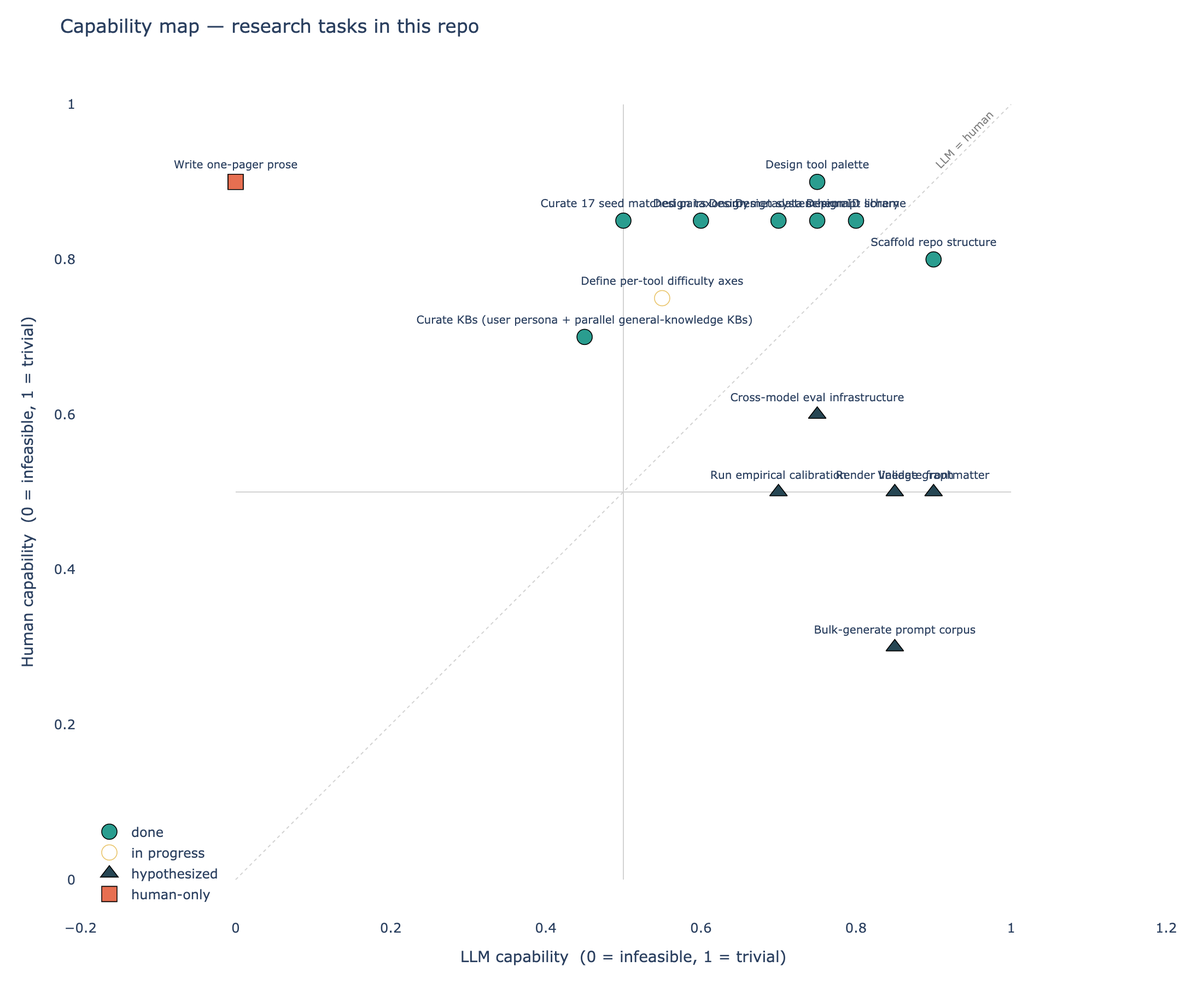
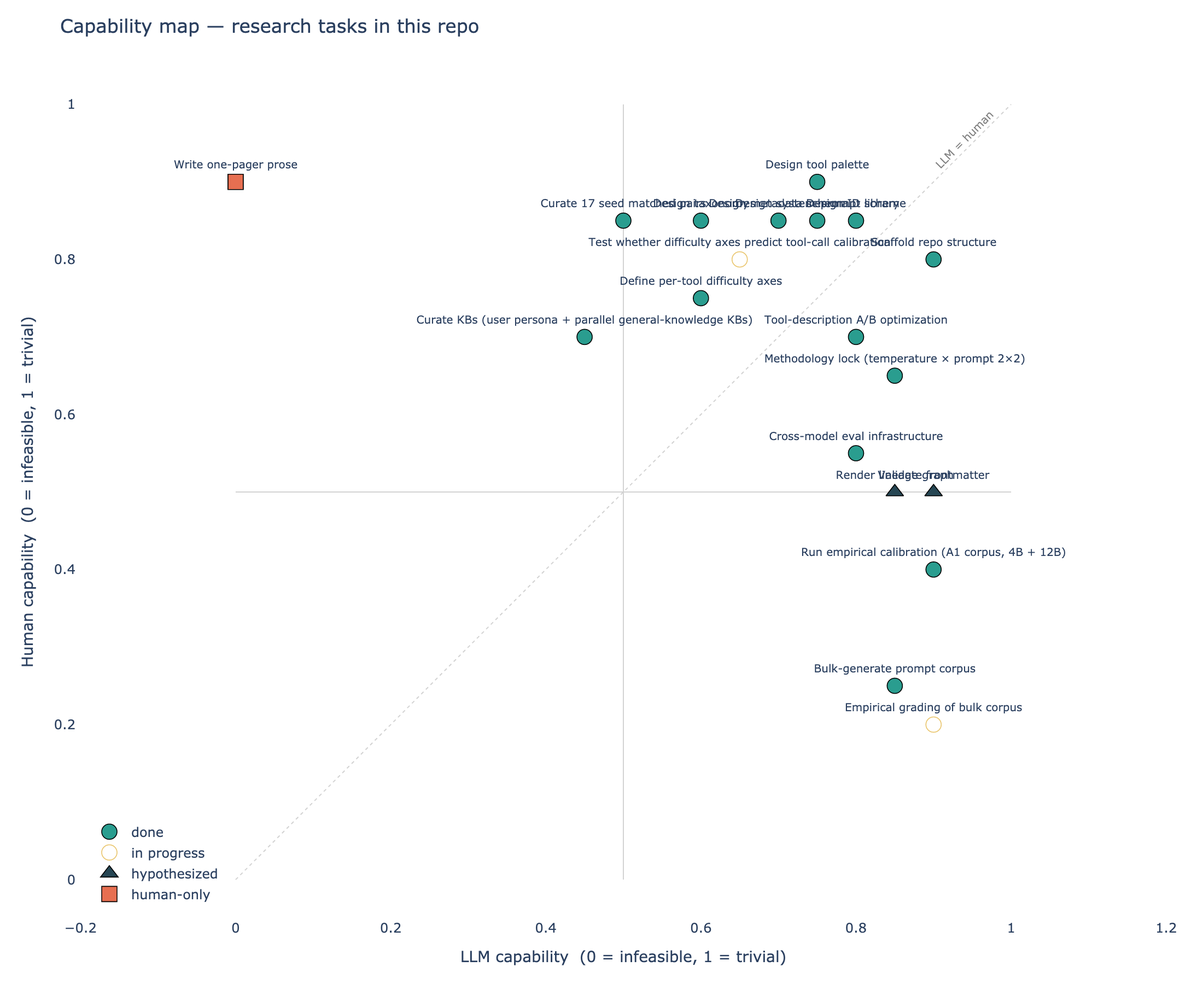
Capability map + A3 fixes + legacy mark + memory updates
Capability map (capability-map/tasks.yaml):
- define-difficulty-axes: hypothesized → done; axis tweaks noted.
- bulk-generate-corpus: hypothesized → done (003 link).
- empirical-calibration-run: hypothesized → done (004 link).
- cross-model-eval-infra: hypothesized → done (004 link).
- Added: tool-spec-optimization (005, done), temperature-prompt-2x2
  (006, done), bulk-corpus-grading (007 prereq, in-progress),
  axes-performativity-analysis (007, in-progress).

A3 reviewer items resolved:
- Item 1 (expected_tool_call convention divergence): A3's stricter
  convention (warranted-half = True only at medium+) canonicalized
  in 003 Decision 1. A1 records happen to satisfy it (every A1
  warranted half is medium+), so no A1 retrofit needed.
- Item 2 (datetime_now × extreme): 9 records relabeled in
  bulk_seeds.jsonl to tool_target=python_execute. All records still
  validate. Captured in 003 Decision 2. Post-relabel:
  datetime_now × extreme = 0; python_execute × extreme = 22.
  The record IDs still contain "datetime_now" in the {tool} slug —
  documented as accepted ID-vs-field inconsistency.
- Item 3 (UKL composite queries): Amendment Decision 1a added to
  002 investigation.md formalizing the UKL composite extension to
  hard/extreme via 2-/3-field synthesis. 5 A3 records use this.
- Item 4 (GKL trivial recycling): logged as known limitation in
  003 investigation.md. Will revisit after A4 grading shows
  whether model behavior on the trivial halves is dominated by
[…]

diff --git a/capability-map/capability-map.html b/capability-map/capability-map.html
@@ -2,6 +2,6 @@
 <head><meta charset="utf-8" /></head>
 <body>
     <div>                        <script>window.PlotlyConfig = {MathJaxConfig: 'local'};</script>
-        <script charset="utf-8" src="https://cdn.plot.ly/plotly-3.5.0.min.js" integrity="sha256-fHbNLP+GlIXN+efbQec78UkemUz3NJp7UmfGxC1tNxs=" crossorigin="anonymous"></script>                <div id="4e34c558-1bec-40a4-a410-45e835da3844" class="plotly-graph-div" style="height:900px; width:1100px;"></div>            <script>                window.PLOTLYENV=window.PLOTLYENV || {};                                if (document.getElementById("4e34c558-1bec-40a4-a410-45e835da3844")) {                    Plotly.newPlot(                        "4e34c558-1bec-40a4-a410-45e835da3844",                        [{"hoverinfo":"text","hovertext":["\u003cb\u003eScaffold repo structure\u003c\u002fb\u003e\u003cbr\u003eid: scaffold-repo-structure\u003cbr\u003estudy: 000-research-organization\u003cbr\u003einvestigation: 001-initial-scaffold\u003cbr\u003estatus: done\u003cbr\u003eLLM: 0.90 &nbsp; human: 0.80\u003cbr\u003eDone with principles supplied by human; minor decisions delegated.","\u003cb\u003eDesign taxonomy\u003c\u002fb\u003e\u003cbr\u003eid: design-taxonomy\u003cbr\u003estudy: 000-research-organization\u003cbr\u003einvestigation: 001-initial-scaffold\u003cbr\u003estatus: done\u003cbr\u003eLLM: 0.60 &nbsp; human: 0.85\u003cbr\u003eHuman chose between presented options.","\u003cb\u003eDesign tool palette\u003c\u002fb\u003e\u003cbr\u003eid: design-tool-palette\u003cbr\u003estudy: 001-tool-calibration\u003cbr\u003einvestigation: 001-foundations\u003cbr\u003estatus: done\u003cbr\u003eLLM: 0.75 &nbsp; human: 0.90\u003cbr\u003ePhase A1. LLM drafted 5 tools; human pushed to split knowledge_lookup (Decision 8) making the final palette six. Tool signatures and cognitive- moment annotations carried by LLM with human surfacing the split.","\u003cb\u003eDesign metadata schema\u003c\u002fb\u003e\u003cbr\u003eid: design-metadata-schema\u003cbr\u003estudy: 001-tool-calibration\u003cbr\u003einvestigation: 001-foundations\u003cbr\u003estatus: done\u003cbr\u003eLLM: 0.70 &nbsp; human: 0.85\u003cbr\u003ePhase A1. LLM drafted; human substantively reshaped \u2014 Decision 11 (register \u2192 3 orthogonal enums), Decision 13 (difficulty_label as signed object), Decision 18 (human_feasibility). LLM-first draft, human-led refinement.","\u003cb\u003eDesign ID scheme\u003c\u002fb\u003e\u003cbr\u003eid: design-id-scheme\u003cbr\u003estudy: 001-tool-calibration\u003cbr\u003einvestigation: 001-foundations\u003cbr\u003estatus: done\u003cbr\u003eLLM: 0.80 &nbsp; human: 0.85\u003cbr\u003ePhase A1. LLM designed the slug format; human caught the multi-token tool-name parse bug (Decision 12, switched field separator to `-`).","\u003cb\u003eDesign system-prompt library\u003c\u002fb\u003e\u003cbr\u003eid: design-system-prompt-library\u003cbr\u003estudy: 001-tool-calibration\u003cbr\u003einvestigation: 001-foundations\u003cbr\u003estatus: done\u003cbr\u003eLLM: 0.75 &nbsp; human: 0.85\u003cbr\u003ePhase A1. Human picked the 9-variant matrix; LLM wrote the templates and manifest. 4 variants drafted but unused by A1 seeds \u2014 kept for A2\u002fA3.","\u003cb\u003eCurate 17 seed matched pairs\u003c\u002fb\u003e\u003cbr\u003eid: curate-seed-prompts\u003cbr\u003estudy: 001-tool-calibration\u003cbr\u003einvestigation: 001-foundations\u003cbr\u003estatus: done\u003cbr\u003eLLM: 0.50 &nbsp; human: 0.85\u003cbr\u003ePhase A1. LLM drafted 16 pairs; human contributed pair 17 (Aunt Nina) and stamp-reviewed every half. LLM confabulated knowledge-base content (Decision 16) and made arithmetic errors that the user caught (Decision 17), pulling the LLM score down from the 0.45 hypothesis to 0.5 \u2014 better than expected at structure, worse at fact-grounding.","\u003cb\u003eCurate KBs (user persona + parallel general-knowledge KBs)\u003c\u002fb\u003e\u003cbr\u003eid: curate-knowledge-bases\u003cbr\u003estudy: 001-tool-calibration\u003cbr\u003einvestigation: 001-foundations\u003cbr\u003estatus: done\u003cbr\u003eLLM: 0.45 &nbsp; human: 0.70\u003cbr\u003ePhase A1 ancillary, surfaced mid-execution. LLM strong on fictional persona (Maya Patel) but confabulated when grounding general-knowledge KB \u2014 until pulled back to use WebSearch (Decision 16). The fabricated + verified parallel pair is itself a research artifact for a sibling investigation."],"marker":{"color":"#2a9d8f","line":{"color":"black","width":0.8},"size":14,"symbol":"circle"},"mode":"markers+text","name":"done","text":["Scaffold repo structure","Design taxonomy","Design tool palette","Design metadata schema","Design ID scheme","Design system-prompt library","Curate 17 seed matched pairs","Curate KBs (user persona + parallel general-knowledge KBs)"],"textfont":{"size":10},"textposition":"top center","x":[0.9,0.6,0.75,0.7,0.8,0.75,0.5,0.45],"y":[0.8,0.85,0.9,0.85,0.85,0.85,0.85,0.7],"type":"scatter"},{"hoverinfo":"text","hovertext":["\u003cb\u003eDefine per-tool difficulty axes\u003c\u002fb\u003e\u003cbr\u003eid: define-difficulty-axes\u003cbr\u003estudy: 001-tool-calibration\u003cbr\u003einvestigation: 002-difficulty-axes\u003cbr\u003estatus: in-progress\u003cbr\u003eLLM: 0.55 &nbsp; human: 0.75\u003cbr\u003ePhase A2 \u2014 depends on palette being frozen (done in A1)."],"marker":{"color":"#e9c46a","line":{"color":"black","width":0.8},"size":14,"symbol":"circle-open"},"mode":"markers+text","name":"in progress","text":["Define per-tool difficulty axes"],"textfont":{"size":10},"textposition":"top center","x":[0.55],"y":[0.75],"type":"scatter"},{"hoverinfo":"text","hovertext":["\u003cb\u003eRender lineage graph\u003c\u002fb\u003e\u003cbr\u003eid: lineage-graph-render\u003cbr\u003estudy: 000-research-organization\u003cbr\u003einvestigation: \u2014\u003cbr\u003estatus: hypothesized\u003cbr\u003eLLM: 0.85 &nbsp; human: 0.50\u003cbr\u003eGenerate DOT\u002fMermaid from lineage.yaml.","\u003cb\u003eValidate frontmatter\u003c\u002fb\u003e\u003cbr\u003eid: frontmatter-validator\u003cbr\u003estudy: 000-research-organization\u003cbr\u003einvestigation: \u2014\u003cbr\u003estatus: hypothesized\u003cbr\u003eLLM: 0.90 &nbsp; human: 0.50","\u003cb\u003eBulk-generate prompt corpus\u003c\u002fb\u003e\u003cbr\u003eid: bulk-generate-corpus\u003cbr\u003estudy: 001-tool-calibration\u003cbr\u003einvestigation: \u2014\u003cbr\u003estatus: hypothesized\u003cbr\u003eLLM: 0.85 &nbsp; human: 0.30\u003cbr\u003ePhase A3 \u2014 LLM-favored if seeds + axes are solid.","\u003cb\u003eRun empirical calibration\u003c\u002fb\u003e\u003cbr\u003eid: empirical-calibration-run\u003cbr\u003estudy: 001-tool-calibration\u003cbr\u003einvestigation: \u2014\u003cbr\u003estatus: hypothesized\u003cbr\u003eLLM: 0.70 &nbsp; human: 0.50\u003cbr\u003ePhase A4 \u2014 sweep target models on the corpus.","\u003cb\u003eCross-model eval infrastructure\u003c\u002fb\u003e\u003cbr\u003eid: cross-model-eval-infra\u003cbr\u003estudy: 001-tool-calibration\u003cbr\u003einvestigation: \u2014\u003cbr\u003estatus: hypothesized\u003cbr\u003eLLM: 0.75 &nbsp; human: 0.60"],"marker":{"color":"#264653","line":{"color":"black","width":0.8},"size":14,"symbol":"triangle-up"},"mode":"markers+text","name":"hypothesized","text":["Render lineage graph","Validate frontmatter","Bulk-generate prompt corpus","Run empirical calibration","Cross-model eval infrastructure"],"textfont":{"size":10},"textposition":"top center","x":[0.85,0.9,0.85,0.7,0.75],"y":[0.5,0.5,0.3,0.5,0.6],"type":"scatter"},{"hoverinfo":"text","hovertext":["\u003cb\u003eWrite one-pager prose\u003c\u002fb\u003e\u003cbr\u003eid: write-one-pager-prose\u003cbr\u003estudy: \u2014\u003cbr\u003einvestigation: \u2014\u003cbr\u003estatus: human-only\u003cbr\u003eLLM: 0.00 &nbsp; human: 0.90\u003cbr\u003ePolicy decision \u2014 Claude scaffolds and gives feedback only."],"marker":{"color":"#e76f51","line":{"color":"black","width":0.8},"size":14,"symbol":"square"},"mode":"markers+text","name":"human-only","text":["Write one-pager prose"],"textfont":{"size":10},"textposition":"top center","x":[0.0],"y":[0.9],"type":"scatter"}],                        {"template":{"data":{"barpolar":[{"marker":{"line":{"color":"white","width":0.5},"pattern":{"fillmode":"overlay","size":10,"solidity":0.2}},"type":"barpolar"}],"bar":[{"error_x":{"color":"#2a3f5f"},"error_y":{"color":"#2a3f5f"},"marker":{"line":{"color":"white","width":0.5},"pattern":{"fillmode":"overlay","size":10,"solidity":0.2}},"type":"bar"}],"carpet":[{"aaxis":{"endlinecolor":"#2a3f5f","gridcolor":"#C8D4E3","linecolor":"#C8D4E3","minorgridcolor":"#C8D4E3","startlinecolor":"#2a3f5f"},"baxis":{"endlinecolor":"#2a3f5f","gridcolor":"#C8D4E3","linecolor":"#C8D4E3","minorgridcolor":"#C8D4E3","startlinecolor":"#2a3f5f"},"type":"carpet"}],"choropleth":[{"colorbar":{"outlinewidth":0,"ticks":""},"type":"choropleth"}],"contourcarpet":[{"colorbar":{"outlinewidth":0,"ticks":""},"type":"contourcarpet"}],"contour":[{"colorbar":{"outlinewidth":0,"ticks":""},"colorscale":[[0.0,"#0d0887"],[0.1111111111111111,"#46039f"],[0.2222222222222222,"#7201a8"],[0.3333333333333333,"#9c179e"],[0.4444444444444444,"#bd3786"],[0.5555555555555556,"#d8576b"],[0.6666666666666666,"#ed7953"],[0.7777777777777778,"#fb9f3a"],[0.8888888888888888,"#fdca26"],[1.0,"#f0f921"]],"type":"contour"}],"heatmap":[{"colorbar":{"outlinewidth":0,"ticks":""},"colorscale":[[0.0,"#0d0887"],[0.1111111111111111,"#46039f"],[0.2222222222222222,"#7201a8"],[0.3333333333333333,"#9c179e"],[0.4444444444444444,"#bd3786"],[0.5555555555555556,"#d8576b"],[0.6666666666666666,"#ed7953"],[0.7777777777777778,"#fb9f3a"],[0.8888888888888888,"#fdca26"],[1.0,"#f0f921"]],"type":"heatmap"}],"histogram2dcontour":[{"colorbar":{"outlinewidth":0,"ticks":""},"colorscale":[[0.0,"#0d0887"],[0.1111111111111111,"#46039f"],[0.2222222222222222,"#7201a8"],[0.3333333333333333,"#9c179e"],[0.4444444444444444,"#bd3786"],[0.5555555555555556,"#d8576b"],[0.6666666666666666,"#ed7953"],[0.7777777777777778,"#fb9f3a"],[0.8888888888888888,"#fdca26"],[1.0,"#f0f921"]],"type":"histogram2dcontour"}],"histogram2d":[{"colorbar":{"outlinewidth":0,"ticks":""},"colorscale":[[0.0,"#0d0887"],[0.1111111111111111,"#46039f"],[0.2222222222222222,"#7201a8"],[0.3333333333333333,"#9c179e"],[0.4444444444444444,"#bd3786"],[0.5555555555555556,"#d8576b"],[0.6666666666666666,"#ed7953"],[0.7777777777777778,"#fb9f3a"],[0.8888888888888888,"#fdca26"],[1.0,"#f0f921"]],"type":"histogram2d"}],"histogram":[{"marker":{"pattern":{"fillmode":"overlay","size":10,"solidity":0.2}},"type":"histogram"}],"mesh3d":[{"colorbar":{"outlinewidth":0,"ticks":""},"type":"mesh3d"}],"parcoords":[{"line":{"colorbar":{"outlinewidth":0,"ticks":""}},"type":"parcoords"}],"pie":[{"automargin":true,"type":"pie"}],"scatter3d":[{"line":{"colorbar":{"outlinewidth":0,"ticks":""}},"marker":{"colorbar":{"outlinewidth":0,"ticks":""}},"type":"scatter3d"}],"scattercarpet":[{"marker":{"colorbar":{"outlinewidth":0,"ticks":""}},"type":"scattercarpet"}],"scattergeo":[{"marker":{"colorbar":{"outlinewidth":0,"ticks":""}},"type":"scattergeo"}],"scattergl":[{"marker":{"colorbar":{"outlinewidth":0,"ticks":""}},"type":"scattergl"}],"scattermapbox":[{"marker":{"colorbar":{"outlinewidth":0,"ticks":""}},"type":"scattermapbox"}],"scattermap":[{"marker":{"colorbar":{"outlinewidth":0,"ticks":""}},"type":"scattermap"}],"scatterpolargl":[{"marker":{"colorbar":{"outlinewidth":0,"ticks":""}},"type":"scatterpolargl"}],"scatterpolar":[{"marker":{"colorbar":{"outlinewidth":0,"ticks":""}},"type":"scatterpolar"}],"scatter":[{"fillpattern":{"fillmode":"overlay","size":10,"solidity":0.2},"type":"scatter"}],"scatterternary":[{"marker":{"colorbar":{"outlinewidth":0,"ticks":""}},"type":"scatterternary"}],"surface":[{"colorbar":{"outlinewidth":0,"ticks":""},"colorscale":[[0.0,"#0d0887"],[0.1111111111111111,"#46039f"],[0.2222222222222222,"#7201a8"],[0.3333333333333333,"#9c179e"],[0.4444444444444444,"#bd3786"],[0.5555555555555556,"#d8576b"],[0.6666666666666666,"#ed7953"],[0.7777777777777778,"#fb9f3a"],[0.8888888888888888,"#fdca26"],[1.0,"#f0f921"]],"type":"surface"}],"table":[{"cells":{"fill":{"color":"#EBF0F8"},"line":{"color":"white"}},"header":{"fill":{"color":"#C8D4E3"},"line":{"color":"white"}},"type":"table"}]},"layout":{"annotationdefaults":{"arrowcolor":"#2a3f5f","arrowhead":0,"arrowwidth":1},"autotypenumbers":"strict","coloraxis":{"colorbar":{"outlinewidth":0,"ticks":""}},"colorscale":{"diverging":[[0,"#8e0152"],[0.1,"#c51b7d"],[0.2,"#de77ae"],[0.3,"#f1b6da"],[0.4,"#fde0ef"],[0.5,"#f7f7f7"],[0.6,"#e6f5d0"],[0.7,"#b8e186"],[0.8,"#7fbc41"],[0.9,"#4d9221"],[1,"#276419"]],"sequential":[[0.0,"#0d0887"],[0.1111111111111111,"#46039f"],[0.2222222222222222,"#7201a8"],[0.3333333333333333,"#9c179e"],[0.4444444444444444,"#bd3786"],[0.5555555555555556,"#d8576b"],[0.6666666666666666,"#ed7953"],[0.7777777777777778,"#fb9f3a"],[0.8888888888888888,"#fdca26"],[1.0,"#f0f921"]],"sequentialminus":[[0.0,"#0d0887"],[0.1111111111111111,"#46039f"],[0.2222222222222222,"#7201a8"],[0.3333333333333333,"#9c179e"],[0.4444444444444444,"#bd3786"],[0.5555555555555556,"#d8576b"],[0.6666666666666666,"#ed7953"],[0.7777777777777778,"#fb9f3a"],[0.8888888888888888,"#fdca26"],[1.0,"#f0f921"]]},"colorway":["#636efa","#EF553B","#00cc96","#ab63fa","#FFA15A","#19d3f3","#FF6692","#B6E880","#FF97FF","#FECB52"],"font":{"color":"#2a3f5f"},"geo":{"bgcolor":"white","lakecolor":"white","landcolor":"white","showlakes":true,"showland":true,"subunitcolor":"#C8D4E3"},"hoverlabel":{"align":"left"},"hovermode":"closest","mapbox":{"style":"light"},"paper_bgcolor":"white","plot_bgcolor":"white","polar":{"angularaxis":{"gridcolor":"#EBF0F8","linecolor":"#EBF0F8","ticks":""},"bgcolor":"white","radialaxis":{"gridcolor":"#EBF0F8","linecolor":"#EBF0F8","ticks":""}},"scene":{"xaxis":{"backgroundcolor":"white","gridcolor":"#DFE8F3","gridwidth":2,"linecolor":"#EBF0F8","showbackground":true,"ticks":"","zerolinecolor":"#EBF0F8"},"yaxis":{"backgroundcolor":"white","gridcolor":"#DFE8F3","gridwidth":2,"linecolor":"#EBF0F8","showbackground":true,"ticks":"","zerolinecolor":"#EBF0F8"},"zaxis":{"backgroundcolor":"white","gridcolor":"#DFE8F3","gridwidth":2,"linecolor":"#EBF0F8","showbackground":true,"ticks":"","zerolinecolor":"#EBF0F8"}},"shapedefaults":{"line":{"color":"#2a3f5f"}},"ternary":{"aaxis":{"gridcolor":"#DFE8F3","linecolor":"#A2B1C6","ticks":""},"baxis":{"gridcolor":"#DFE8F3","linecolor":"#A2B1C6","ticks":""},"bgcolor":"white","caxis":{"gridcolor":"#DFE8F3","linecolor":"#A2B1C6","ticks":""}},"title":{"x":0.05},"xaxis":{"automargin":true,"gridcolor":"#EBF0F8","linecolor":"#EBF0F8","ticks":"","title":{"standoff":15},"zerolinecolor":"#EBF0F8","zerolinewidth":2},"yaxis":{"automargin":true,"gridcolor":"#EBF0F8","linecolor":"#EBF0F8","ticks":"","title":{"standoff":15},"zerolinecolor":"#EBF0F8","zerolinewidth":2}}},"shapes":[{"layer":"below","line":{"color":"lightgray","dash":"dot","width":1},"type":"line","x0":0,"x1":1,"y0":0,"y1":1},{"layer":"below","line":{"color":"lightgray","width":1},"type":"line","x0":0,"x1":1,"y0":0.5,"y1":0.5},{"layer":"below","line":{"color":"lightgray","width":1},"type":"line","x0":0.5,"x1":0.5,"y0":0,"y1":1}],"annotations":[{"font":{"color":"gray","size":10},"showarrow":false,"text":"LLM = human","textangle":-45,"x":0.985,"xanchor":"right","y":1.0,"yanchor":"top"}],"xaxis":{"title":{"text":"LLM capability  (0 = infeasible, 1 = trivial)"},"range":[-0.05,1.05],"showgrid":false,"zeroline":false},"yaxis":{"title":{"text":"Human capability  (0 = infeasible, 1 = trivial)"},"range":[-0.05,1.05],"showgrid":false,"zeroline":false,"scaleanchor":"x","scaleratio":1},"legend":{"x":0.01,"y":0.01,"xanchor":"left","yanchor":"bottom","bgcolor":"rgba(255,255,255,0.9)"},"margin":{"l":70,"r":30,"t":60,"b":60},"title":{"text":"Capability map \u2014 research tasks in this repo"},"width":1100,"height":900},                        {"responsive": true}                    )                };            </script>        </div>
+        <script charset="utf-8" src="https://cdn.plot.ly/plotly-3.5.0.min.js" integrity="sha256-fHbNLP+GlIXN+efbQec78UkemUz3NJp7UmfGxC1tNxs=" crossorigin="anonymous"></script>                <div id="6ef825b4-f886-4375-96b7-45d00e02fde7" class="plotly-graph-div" style="height:900px; width:1100px;"></div>            <script>                window.PLOTLYENV=window.PLOTLYENV || {};                                if (document.getElementById("6ef825b4-f886-4375-96b7-45d00e02fde7")) {                    Plotly.newPlot(                        "6ef825b4-f886-4375-96b7-45d00e02fde7",                        [{"hoverinfo":"text","hovertext":["\u003cb\u003eScaffold repo structure\u003c\u002fb\u003e\u003cbr\u003eid: scaffold-repo-structure\u003cbr\u003estudy: 000-research-organization\u003cbr\u003einvestigation: 001-initial-scaffold\u003cbr\u003estatus: done\u003cbr\u003eLLM: 0.90 &nbsp; human: 0.80\u003cbr\u003eDone with principles supplied by human; minor decisions delegated.","\u003cb\u003eDesign taxonomy\u003c\u002fb\u003e\u003cbr\u003eid: design-taxonomy\u003cbr\u003estudy: 000-research-organization\u003cbr\u003einvestigation: 001-initial-scaffold\u003cbr\u003estatus: done\u003cbr\u003eLLM: 0.60 &nbsp; human: 0.85\u003cbr\u003eHuman chose between presented options.","\u003cb\u003eDesign tool palette\u003c\u002fb\u003e\u003cbr\u003eid: design-tool-palette\u003cbr\u003estudy: 001-tool-calibration\u003cbr\u003einvestigation: 001-foundations\u003cbr\u003estatus: done\u003cbr\u003eLLM: 0.75 &nbsp; human: 0.90\u003cbr\u003ePhase A1. LLM drafted 5 tools; human pushed to split knowledge_lookup (Decision 8) making the final palette six. Tool signatures and cognitive- moment annotations carried by LLM with human surfacing the split.","\u003cb\u003eDesign metadata schema\u003c\u002fb\u003e\u003cbr\u003eid: design-metadata-schema\u003cbr\u003estudy: 001-tool-calibration\u003cbr\u003einvestigation: 001-foundations\u003cbr\u003estatus: done\u003cbr\u003eLLM: 0.70 &nbsp; human: 0.85\u003cbr\u003ePhase A1. LLM drafted; human substantively reshaped \u2014 Decision 11 (register \u2192 3 orthogonal enums), Decision 13 (difficulty_label as signed object), Decision 18 (human_feasibility). LLM-first draft, human-led refinement.","\u003cb\u003eDesign ID scheme\u003c\u002fb\u003e\u003cbr\u003eid: design-id-scheme\u003cbr\u003estudy: 001-tool-calibration\u003cbr\u003einvestigation: 001-foundations\u003cbr\u003estatus: done\u003cbr\u003eLLM: 0.80 &nbsp; human: 0.85\u003cbr\u003ePhase A1. LLM designed the slug format; human caught the multi-token tool-name parse bug (Decision 12, switched field separator to `-`).","\u003cb\u003eDesign system-prompt library\u003c\u002fb\u003e\u003cbr\u003eid: design-system-prompt-library\u003cbr\u003estudy: 001-tool-calibration\u003cbr\u003einvestigation: 001-foundations\u003cbr\u003estatus: done\u003cbr\u003eLLM: 0.75 &nbsp; human: 0.85\u003cbr\u003ePhase A1. Human picked the 9-variant matrix; LLM wrote the templates and manifest. 4 variants drafted but unused by A1 seeds \u2014 kept for A2\u002fA3.","\u003cb\u003eCurate 17 seed matched pairs\u003c\u002fb\u003e\u003cbr\u003eid: curate-seed-prompts\u003cbr\u003estudy: 001-tool-calibration\u003cbr\u003einvestigation: 001-foundations\u003cbr\u003estatus: done\u003cbr\u003eLLM: 0.50 &nbsp; human: 0.85\u003cbr\u003ePhase A1. LLM drafted 16 pairs; human contributed pair 17 (Aunt Nina) and stamp-reviewed every half. LLM confabulated knowledge-base content (Decision 16) and made arithmetic errors that the user caught (Decision 17), pulling the LLM score down from the 0.45 hypothesis to 0.5 \u2014 better than expected at structure, worse at fact-grounding.","\u003cb\u003eCurate KBs (user persona + parallel general-knowledge KBs)\u003c\u002fb\u003e\u003cbr\u003eid: curate-knowledge-bases\u003cbr\u003estudy: 001-tool-calibration\u003cbr\u003einvestigation: 001-foundations\u003cbr\u003estatus: done\u003cbr\u003eLLM: 0.45 &nbsp; human: 0.70\u003cbr\u003ePhase A1 ancillary, surfaced mid-execution. LLM strong on fictional persona (Maya Patel) but confabulated when grounding general-knowledge KB \u2014 until pulled back to use WebSearch (Decision 16). The fabricated + verified parallel pair is itself a research artifact for a sibling investigation.","\u003cb\u003eDefine per-tool difficulty axes\u003c\u002fb\u003e\u003cbr\u003eid: define-difficulty-axes\u003cbr\u003estudy: 001-tool-calibration\u003cbr\u003einvestigation: 002-difficulty-axes\u003cbr\u003estatus: done\u003cbr\u003eLLM: 0.60 &nbsp; human: 0.75\u003cbr\u003ePhase A2 (Decision 1, 2026-05-11). LLM drafted per-tool axes; human signed off as-is. Subsequent A4 empirical work (006 F3\u002fF4\u002fF5) showed the axes don't predict tool-call calibration \u2014 task-difficulty vs tool-call-calibration mismatch. See investigation 007.","\u003cb\u003eBulk-generate prompt corpus\u003c\u002fb\u003e\u003cbr\u003eid: bulk-generate-corpus\u003cbr\u003estudy: 001-tool-calibration\u003cbr\u003einvestigation: 003-bulk-generation\u003cbr\u003estatus: done\u003cbr\u003eLLM: 0.85 &nbsp; human: 0.25\u003cbr\u003ePhase A3, 2026-05-12. Subagent-driven generation against the 002 axes proposal. 183 pairs \u002f 366 records, KB-grounded, anti-leakage on Type A trivial halves. 4 reviewer items pending; awaiting A4 grading.","\u003cb\u003eTool-description A\u002fB optimization\u003c\u002fb\u003e\u003cbr\u003eid: tool-spec-optimization\u003cbr\u003estudy: 001-tool-calibration\u003cbr\u003einvestigation: 005-tool-spec-optimization\u003cbr\u003estatus: done\u003cbr\u003eLLM: 0.80 &nbsp; human: 0.70\u003cbr\u003e2026-05-12. Variant runner + 5 A\u002fB experiments + style guide synthesis. Found \"REQUIRED whenever...\" is the load-bearing lever (over naming\u002fepistemic framing); over-cueing hurts.","\u003cb\u003eMethodology lock (temperature \u00d7 prompt 2\u00d72)\u003c\u002fb\u003e\u003cbr\u003eid: temperature-prompt-2x2\u003cbr\u003estudy: 001-tool-calibration\u003cbr\u003einvestigation: 006-temperature-prompt\u003cbr\u003estatus: done\u003cbr\u003eLLM: 0.85 &nbsp; human: 0.65\u003cbr\u003e2026-05-12. Full 4B IT + 12B IT factorial. Locked temp=1.0, top_p=0.95 as production-typical baseline. Surfaced scale \u00d7 directive interaction.","\u003cb\u003eRun empirical calibration (A1 corpus, 4B + 12B)\u003c\u002fb\u003e\u003cbr\u003eid: empirical-calibration-run\u003cbr\u003estudy: 001-tool-calibration\u003cbr\u003einvestigation: 004-calibration-pilot\u003cbr\u003estatus: done\u003cbr\u003eLLM: 0.90 &nbsp; human: 0.40\u003cbr\u003ePhase A4 pilot 2026-05-12. 4B IT pilot + 12B IT escalation, both models 2\u00d72 vs neutral\u002fdirective prompts. ~2,880 trials between them. All harness automation; human directed model selection + setup.","\u003cb\u003eCross-model eval infrastructure\u003c\u002fb\u003e\u003cbr\u003eid: cross-model-eval-infra\u003cbr\u003estudy: 001-tool-calibration\u003cbr\u003einvestigation: 004-calibration-pilot\u003cbr\u003estatus: done\u003cbr\u003eLLM: 0.80 &nbsp; human: 0.55\u003cbr\u003eHarness (Ollama HTTP backend over Tailscale to desktop WSL + Gemini API stub), runner with sampling + prompt-set controls, analyzer with retroactive rescoring. Built into A4 pilot."],"marker":{"color":"#2a9d8f","line":{"color":"black","width":0.8},"size":14,"symbol":"circle"},"mode":"markers+text","name":"done","text":["Scaffold repo structure","Design taxonomy","Design tool palette","Design metadata schema","Design ID scheme","Design system-prompt library","Curate 17 seed matched pairs","Curate KBs (user persona + parallel general-knowledge KBs)","Define per-tool difficulty axes","Bulk-generate prompt corpus","Tool-description A\u002fB optimization","Methodology lock (temperature \u00d7 prompt 2\u00d72)","Run empirical calibration (A1 corpus, 4B + 12B)","Cross-model eval infrastructure"],"textfont":{"size":10},"textposition":"top center","x":[0.9,0.6,0.75,0.7,0.8,0.75,0.5,0.45,0.6,0.85,0.8,0.85,0.9,0.8],"y":[0.8,0.85,0.9,0.85,0.85,0.85,0.85,0.7,0.75,0.25,0.7,0.65,0.4,0.55],"type":"scatter"},{"hoverinfo":"text","hovertext":["\u003cb\u003eEmpirical grading of bulk corpus\u003c\u002fb\u003e\u003cbr\u003eid: bulk-corpus-grading\u003cbr\u003estudy: 001-tool-calibration\u003cbr\u003einvestigation: 007-axes-performativity\u003cbr\u003estatus: in-progress\u003cbr\u003eLLM: 0.90 &nbsp; human: 0.20\u003cbr\u003ePhase A4 extension, 2026-05-12. 4B IT + 12B IT against the 366- record bulk corpus at neutral temp=1.0 n=10. Substrate for 007.","\u003cb\u003eTest whether difficulty axes predict tool-call calibration\u003c\u002fb\u003e\u003cbr\u003eid: axes-performativity-analysis\u003cbr\u003estudy: 001-tool-calibration\u003cbr\u003einvestigation: 007-axes-performativity\u003cbr\u003estatus: in-progress\u003cbr\u003eLLM: 0.65 &nbsp; human: 0.80\u003cbr\u003eTriggered by 006 F3\u002fF4\u002fF5 finding. Empirical work gated on bulk-corpus-grading. LLM does correlation work + feature engineering; human directs reformulation if axes need replacing."],"marker":{"color":"#e9c46a","line":{"color":"black","width":0.8},"size":14,"symbol":"circle-open"},"mode":"markers+text","name":"in progress","text":["Empirical grading of bulk corpus","Test whether difficulty axes predict tool-call calibration"],"textfont":{"size":10},"textposition":"top center","x":[0.9,0.65],"y":[0.2,0.8],"type":"scatter"},{"hoverinfo":"text","hovertext":["\u003cb\u003eRender lineage graph\u003c\u002fb\u003e\u003cbr\u003eid: lineage-graph-render\u003cbr\u003estudy: 000-research-organization\u003cbr\u003einvestigation: \u2014\u003cbr\u003estatus: hypothesized\u003cbr\u003eLLM: 0.85 &nbsp; human: 0.50\u003cbr\u003eGenerate DOT\u002fMermaid from lineage.yaml.","\u003cb\u003eValidate frontmatter\u003c\u002fb\u003e\u003cbr\u003eid: frontmatter-validator\u003cbr\u003estudy: 000-research-organization\u003cbr\u003einvestigation: \u2014\u003cbr\u003estatus: hypothesized\u003cbr\u003eLLM: 0.90 &nbsp; human: 0.50"],"marker":{"color":"#264653","line":{"color":"black","width":0.8},"size":14,"symbol":"triangle-up"},"mode":"markers+text","name":"hypothesized","text":["Render lineage graph","Validate frontmatter"],"textfont":{"size":10},"textposition":"top center","x":[0.85,0.9],"y":[0.5,0.5],"type":"scatter"},{"hoverinfo":"text","hovertext":["\u003cb\u003eWrite one-pager prose\u003c\u002fb\u003e\u003cbr\u003eid: write-one-pager-prose\u003cbr\u003estudy: \u2014\u003cbr\u003einvestigation: \u2014\u003cbr\u003estatus: human-only\u003cbr\u003eLLM: 0.00 &nbsp; human: 0.90\u003cbr\u003ePolicy decision \u2014 Claude scaffolds and gives feedback only."],"marker":{"color":"#e76f51","line":{"color":"black","width":0.8},"size":14,"symbol":"square"},"mode":"markers+text","name":"human-only","text":["Write one-pager prose"],"textfont":{"size":10},"textposition":"top center","x":[0.0],"y":[0.9],"type":"scatter"}],                        {"template":{"data":{"barpolar":[{"marker":{"line":{"color":"white","width":0.5},"pattern":{"fillmode":"overlay","size":10,"solidity":0.2}},"type":"barpolar"}],"bar":[{"error_x":{"color":"#2a3f5f"},"error_y":{"color":"#2a3f5f"},"marker":{"line":{"color":"white","width":0.5},"pattern":{"fillmode":"overlay","size":10,"solidity":0.2}},"type":"bar"}],"carpet":[{"aaxis":{"endlinecolor":"#2a3f5f","gridcolor":"#C8D4E3","linecolor":"#C8D4E3","minorgridcolor":"#C8D4E3","startlinecolor":"#2a3f5f"},"baxis":{"endlinecolor":"#2a3f5f","gridcolor":"#C8D4E3","linecolor":"#C8D4E3","minorgridcolor":"#C8D4E3","startlinecolor":"#2a3f5f"},"type":"carpet"}],"choropleth":[{"colorbar":{"outlinewidth":0,"ticks":""},"type":"choropleth"}],"contourcarpet":[{"colorbar":{"outlinewidth":0,"ticks":""},"type":"contourcarpet"}],"contour":[{"colorbar":{"outlinewidth":0,"ticks":""},"colorscale":[[0.0,"#0d0887"],[0.1111111111111111,"#46039f"],[0.2222222222222222,"#7201a8"],[0.3333333333333333,"#9c179e"],[0.4444444444444444,"#bd3786"],[0.5555555555555556,"#d8576b"],[0.6666666666666666,"#ed7953"],[0.7777777777777778,"#fb9f3a"],[0.8888888888888888,"#fdca26"],[1.0,"#f0f921"]],"type":"contour"}],"heatmap":[{"colorbar":{"outlinewidth":0,"ticks":""},"colorscale":[[0.0,"#0d0887"],[0.1111111111111111,"#46039f"],[0.2222222222222222,"#7201a8"],[0.3333333333333333,"#9c179e"],[0.4444444444444444,"#bd3786"],[0.5555555555555556,"#d8576b"],[0.6666666666666666,"#ed7953"],[0.7777777777777778,"#fb9f3a"],[0.8888888888888888,"#fdca26"],[1.0,"#f0f921"]],"type":"heatmap"}],"histogram2dcontour":[{"colorbar":{"outlinewidth":0,"ticks":""},"colorscale":[[0.0,"#0d0887"],[0.1111111111111111,"#46039f"],[0.2222222222222222,"#7201a8"],[0.3333333333333333,"#9c179e"],[0.4444444444444444,"#bd3786"],[0.5555555555555556,"#d8576b"],[0.6666666666666666,"#ed7953"],[0.7777777777777778,"#fb9f3a"],[0.8888888888888888,"#fdca26"],[1.0,"#f0f921"]],"type":"histogram2dcontour"}],"histogram2d":[{"colorbar":{"outlinewidth":0,"ticks":""},"colorscale":[[0.0,"#0d0887"],[0.1111111111111111,"#46039f"],[0.2222222222222222,"#7201a8"],[0.3333333333333333,"#9c179e"],[0.4444444444444444,"#bd3786"],[0.5555555555555556,"#d8576b"],[0.6666666666666666,"#ed7953"],[0.7777777777777778,"#fb9f3a"],[0.8888888888888888,"#fdca26"],[1.0,"#f0f921"]],"type":"histogram2d"}],"histogram":[{"marker":{"pattern":{"fillmode":"overlay","size":10,"solidity":0.2}},"type":"histogram"}],"mesh3d":[{"colorbar":{"outlinewidth":0,"ticks":""},"type":"mesh3d"}],"parcoords":[{"line":{"colorbar":{"outlinewidth":0,"ticks":""}},"type":"parcoords"}],"pie":[{"automargin":true,"type":"pie"}],"scatter3d":[{"line":{"colorbar":{"outlinewidth":0,"ticks":""}},"marker":{"colorbar":{"outlinewidth":0,"ticks":""}},"type":"scatter3d"}],"scattercarpet":[{"marker":{"colorbar":{"outlinewidth":0,"ticks":""}},"type":"scattercarpet"}],"scattergeo":[{"marker":{"colorbar":{"outlinewidth":0,"ticks":""}},"type":"scattergeo"}],"scattergl":[{"marker":{"colorbar":{"outlinewidth":0,"ticks":""}},"type":"scattergl"}],"scattermapbox":[{"marker":{"colorbar":{"outlinewidth":0,"ticks":""}},"type":"scattermapbox"}],"scattermap":[{"marker":{"colorbar":{"outlinewidth":0,"ticks":""}},"type":"scattermap"}],"scatterpolargl":[{"marker":{"colorbar":{"outlinewidth":0,"ticks":""}},"type":"scatterpolargl"}],"scatterpolar":[{"marker":{"colorbar":{"outlinewidth":0,"ticks":""}},"type":"scatterpolar"}],"scatter":[{"fillpattern":{"fillmode":"overlay","size":10,"solidity":0.2},"type":"scatter"}],"scatterternary":[{"marker":{"colorbar":{"outlinewidth":0,"ticks":""}},"type":"scatterternary"}],"surface":[{"colorbar":{"outlinewidth":0,"ticks":""},"colorscale":[[0.0,"#0d0887"],[0.1111111111111111,"#46039f"],[0.2222222222222222,"#7201a8"],[0.3333333333333333,"#9c179e"],[0.4444444444444444,"#bd3786"],[0.5555555555555556,"#d8576b"],[0.6666666666666666,"#ed7953"],[0.7777777777777778,"#fb9f3a"],[0.8888888888888888,"#fdca26"],[1.0,"#f0f921"]],"type":"surface"}],"table":[{"cells":{"fill":{"color":"#EBF0F8"},"line":{"color":"white"}},"header":{"fill":{"color":"#C8D4E3"},"line":{"color":"white"}},"type":"table"}]},"layout":{"annotationdefaults":{"arrowcolor":"#2a3f5f","arrowhead":0,"arrowwidth":1},"autotypenumbers":"strict","coloraxis":{"colorbar":{"outlinewidth":0,"ticks":""}},"colorscale":{"diverging":[[0,"#8e0152"],[0.1,"#c51b7d"],[0.2,"#de77ae"],[0.3,"#f1b6da"],[0.4,"#fde0ef"],[0.5,"#f7f7f7"],[0.6,"#e6f5d0"],[0.7,"#b8e186"],[0.8,"#7fbc41"],[0.9,"#4d9221"],[1,"#276419"]],"sequential":[[0.0,"#0d0887"],[0.1111111111111111,"#46039f"],[0.2222222222222222,"#7201a8"],[0.3333333333333333,"#9c179e"],[0.4444444444444444,"#bd3786"],[0.5555555555555556,"#d8576b"],[0.6666666666666666,"#ed7953"],[0.7777777777777778,"#fb9f3a"],[0.8888888888888888,"#fdca26"],[1.0,"#f0f921"]],"sequentialminus":[[0.0,"#0d0887"],[0.1111111111111111,"#46039f"],[0.2222222222222222,"#7201a8"],[0.3333333333333333,"#9c179e"],[0.4444444444444444,"#bd3786"],[0.5555555555555556,"#d8576b"],[0.6666666666666666,"#ed7953"],[0.7777777777777778,"#fb9f3a"],[0.8888888888888888,"#fdca26"],[1.0,"#f0f921"]]},"colorway":["#636efa","#EF553B","#00cc96","#ab63fa","#FFA15A","#19d3f3","#FF6692","#B6E880","#FF97FF","#FECB52"],"font":{"color":"#2a3f5f"},"geo":{"bgcolor":"white","lakecolor":"white","landcolor":"white","showlakes":true,"showland":true,"subunitcolor":"#C8D4E3"},"hoverlabel":{"align":"left"},"hovermode":"closest","mapbox":{"style":"light"},"paper_bgcolor":"white","plot_bgcolor":"white","polar":{"angularaxis":{"gridcolor":"#EBF0F8","linecolor":"#EBF0F8","ticks":""},"bgcolor":"white","radialaxis":{"gridcolor":"#EBF0F8","linecolor":"#EBF0F8","ticks":""}},"scene":{"xaxis":{"backgroundcolor":"white","gridcolor":"#DFE8F3","gridwidth":2,"linecolor":"#EBF0F8","showbackground":true,"ticks":"","zerolinecolor":"#EBF0F8"},"yaxis":{"backgroundcolor":"white","gridcolor":"#DFE8F3","gridwidth":2,"linecolor":"#EBF0F8","showbackground":true,"ticks":"","zerolinecolor":"#EBF0F8"},"zaxis":{"backgroundcolor":"white","gridcolor":"#DFE8F3","gridwidth":2,"linecolor":"#EBF0F8","showbackground":true,"ticks":"","zerolinecolor":"#EBF0F8"}},"shapedefaults":{"line":{"color":"#2a3f5f"}},"ternary":{"aaxis":{"gridcolor":"#DFE8F3","linecolor":"#A2B1C6","ticks":""},"baxis":{"gridcolor":"#DFE8F3","linecolor":"#A2B1C6","ticks":""},"bgcolor":"white","caxis":{"gridcolor":"#DFE8F3","linecolor":"#A2B1C6","ticks":""}},"title":{"x":0.05},"xaxis":{"automargin":true,"gridcolor":"#EBF0F8","linecolor":"#EBF0F8","ticks":"","title":{"standoff":15},"zerolinecolor":"#EBF0F8","zerolinewidth":2},"yaxis":{"automargin":true,"gridcolor":"#EBF0F8","linecolor":"#EBF0F8","ticks":"","title":{"standoff":15},"zerolinecolor":"#EBF0F8","zerolinewidth":2}}},"shapes":[{"layer":"below","line":{"color":"lightgray","dash":"dot","width":1},"type":"line","x0":0,"x1":1,"y0":0,"y1":1},{"layer":"below","line":{"color":"lightgray","width":1},"type":"line","x0":0,"x1":1,"y0":0.5,"y1":0.5},{"layer":"below","line":{"color":"lightgray","width":1},"type":"line","x0":0.5,"x1":0.5,"y0":0,"y1":1}],"annotations":[{"font":{"color":"gray","size":10},"showarrow":false,"text":"LLM = human","textangle":-45,"x":0.985,"xanchor":"right","y":1.0,"yanchor":"top"}],"xaxis":{"title":{"text":"LLM capability  (0 = infeasible, 1 = trivial)"},"range":[-0.05,1.05],"showgrid":false,"zeroline":false},"yaxis":{"title":{"text":"Human capability  (0 = infeasible, 1 = trivial)"},"range":[-0.05,1.05],"showgrid":false,"zeroline":false,"scaleanchor":"x","scaleratio":1},"legend":{"x":0.01,"y":0.01,"xanchor":"left","yanchor":"bottom","bgcolor":"rgba(255,255,255,0.9)"},"margin":{"l":70,"r":30,"t":60,"b":60},"title":{"text":"Capability map \u2014 research tasks in this repo"},"width":1100,"height":900},                        {"responsive": true}                    )                };            </script>        </div>
 </body>
 </html>

diff --git a/studies/001-tool-calibration/investigations/003-bulk-generation/investigation.md b/studies/001-tool-calibration/investigations/003-bulk-generation/investigation.md
@@ -69,7 +69,49 @@ is reused as-is. A3 only adds the generation pipeline + the corpus.
 
 ## Decisions
 
-_Populate as work proceeds._
+> **Decision 1 — `expected_tool_call` convention canonicalized** (2026-05-12)
+> The A3 subagent introduced a more conservative convention: a
+> warranted half's `expected_tool_call` is True only when
+> `difficulty_label.value ∈ {medium, hard, extreme}` — trivial- and
+> easy-difficulty warranted halves get False. A1 hand-curated seeds
+> happen to satisfy this convention already (every A1 warranted half
+> is medium-or-higher), so no A1 retrofit is needed. Adopted as
+> canonical across the study; future generations and analyses
+> follow this rule.
+
+> **Decision 2 — datetime_now × extreme records relabeled to python_execute** (2026-05-12)
+> 9 records originally generated as `tool_target: datetime_now` at
+> extreme difficulty (cross-timezone scheduling with DST; "200
+> business days excluding US federal holidays"; etc.) actually
+> require python_execute — `datetime_now()` returns the current
+> ISO timestamp but doesn't do date arithmetic. **Patched
+> `bulk_seeds.jsonl` in place** to flip `tool_target` to
+> `python_execute`. All records still validate against the schema.
+> Note: the record IDs still contain `datetime_now` in the {tool}
+> slug — this is an accepted ID-vs-field inconsistency (the ID is
+> just an identifier; downstream code uses the `tool_target` field
+> for dispatch). Subsequent corpora should generate IDs to match.
+>
+> Post-relabel distribution: `python_execute × extreme` rose from
+> 13 to 22 records. `datetime_now × extreme` is now empty.
+
+> **Decision 3 — UKL composite-query amendment to 002 axes** (2026-05-12)
+> The 5 UKL hard/extreme records (composite multi-field queries)
+> are accepted as an axis-refinement and codified in Decision 1a
+> of `../002-difficulty-axes/investigation.md`. Reviewer accepted
+> the extension; A2 proposal's medium cap on UKL is superseded.
+
+## Known limitations (added 2026-05-12)
+
+- **GKL trivial siblings cycle over ~8 well-known facts** (1966
+  World Cup, Hamlet's author, etc.) across many pairs. Matched-pair
+  structure is sound — the warranted half varies per pair, the
+  trivial half is consistent within its rotation pool. But the
+  trivial-side variety is low. If Phase A4 grading reveals model
+  behavior on the trivial halves is dominated by these specific
+  facts (likely 100% across all of them since they're well-known),
+  expand `_GKL_TRIVIALS` and regenerate the trivial-half slot of
+  affected pairs. Cost is low.
 
 ## Results
 

diff --git a/studies/001-tool-calibration/investigations/002-difficulty-axes/investigation.md b/studies/001-tool-calibration/investigations/002-difficulty-axes/investigation.md
@@ -96,6 +96,22 @@ _Populate as we go. Pre-A2 sketch:_
 > empirical difficulty?) is logged as a sibling-investigation
 > Forward-looking entry in `studies/001-tool-calibration/study.md`.
 
+> **Decision 1a — UKL composite-query amendment** (2026-05-12)
+> The original UKL axes capped at `medium` (recoverability + single-
+> field derivation). A3 bulk generation (003) introduced composite
+> queries that compose multiple persona fields ("how many years
+> between the wedding and the daughter's birth"; "what's the
+> family member who lives furthest from Brooklyn"). These reach
+> `hard` and `extreme` bands via 2-field and 3-field synthesis
+> respectively. **Accepted as axis-refinement.** The amended UKL
+> axes are:
+> - `recoverability_from_prompt` — in-prompt vs not (unchanged)
+> - `derivation_depth` — direct (single field) → +0 bands;
+>   derived (two fields) → +1 band; composite (three+ fields)
+>   → +2 bands
+> 5 A3 records at hard/extreme use this extension. No schema
+> changes; compatible with the existing data model.
+
 ## Results
 
 The substantive results for this investigation are the frozen

diff --git a/studies/001-tool-calibration/investigations/004-calibration-pilot/investigation.md b/studies/001-tool-calibration/investigations/004-calibration-pilot/investigation.md
@@ -94,6 +94,17 @@ Tailscale.
 - run_id: `9119ff96`
 - results file (gitignored): `results/gemma3_4b-it-qat/2026-05-12.jsonl`
 
+> **⚠ Legacy data marker.** This pilot ran at temperature=0 on the
+> pre-006 parser version and stored only the first 400 chars of
+> each output (`output_preview`, lossy). It has been **superseded
+> by 006 Cell C / Cell D** for analytical purposes: Cell C is the
+> production-typical neutral baseline (temp=1.0, full outputs,
+> current parser, n=10), and Cell D is the directive companion.
+> Do NOT cite numbers from this pilot in current writeups unless
+> explicitly contrasting against temp=1.0. Bucket-stability and
+> failure-mode taxonomies derived here remain qualitatively valid;
+> aggregate success-rate numbers do not.
+
 **Headline numbers**
 - 23/36 records: perfectly calibrated (20/20 right behavior)
 - 11/36 records: systematic miscalibration (0/20)
